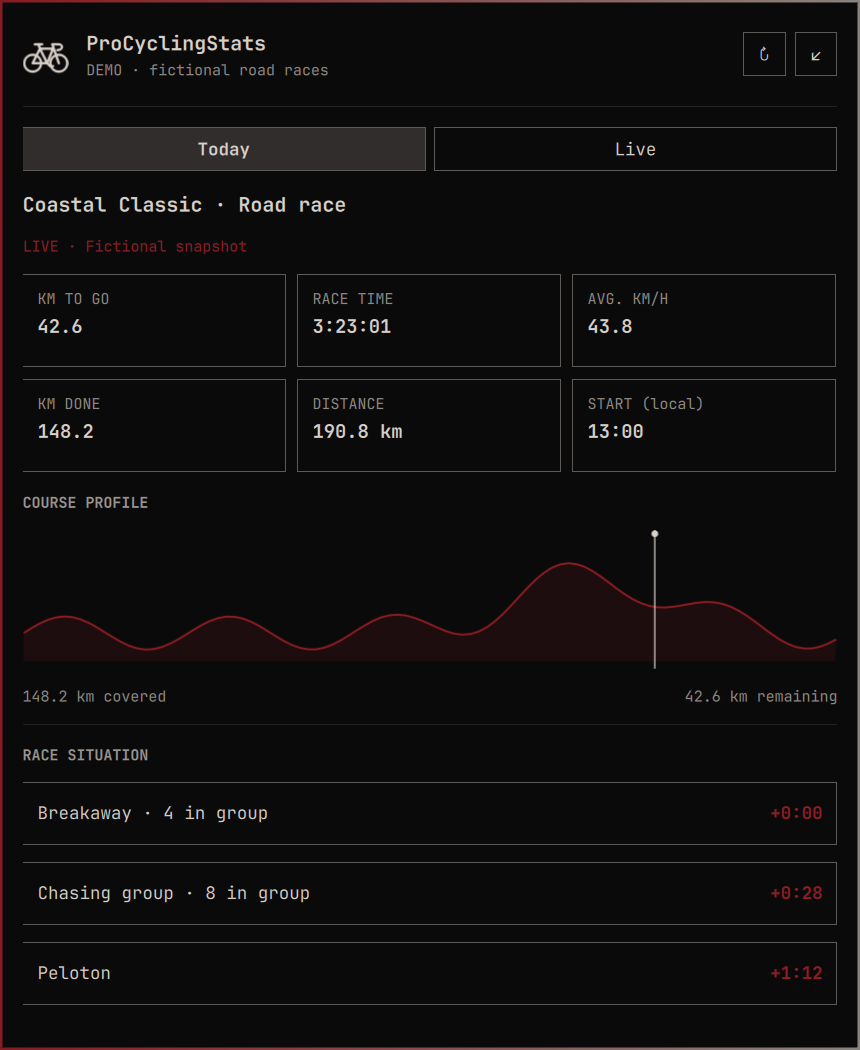
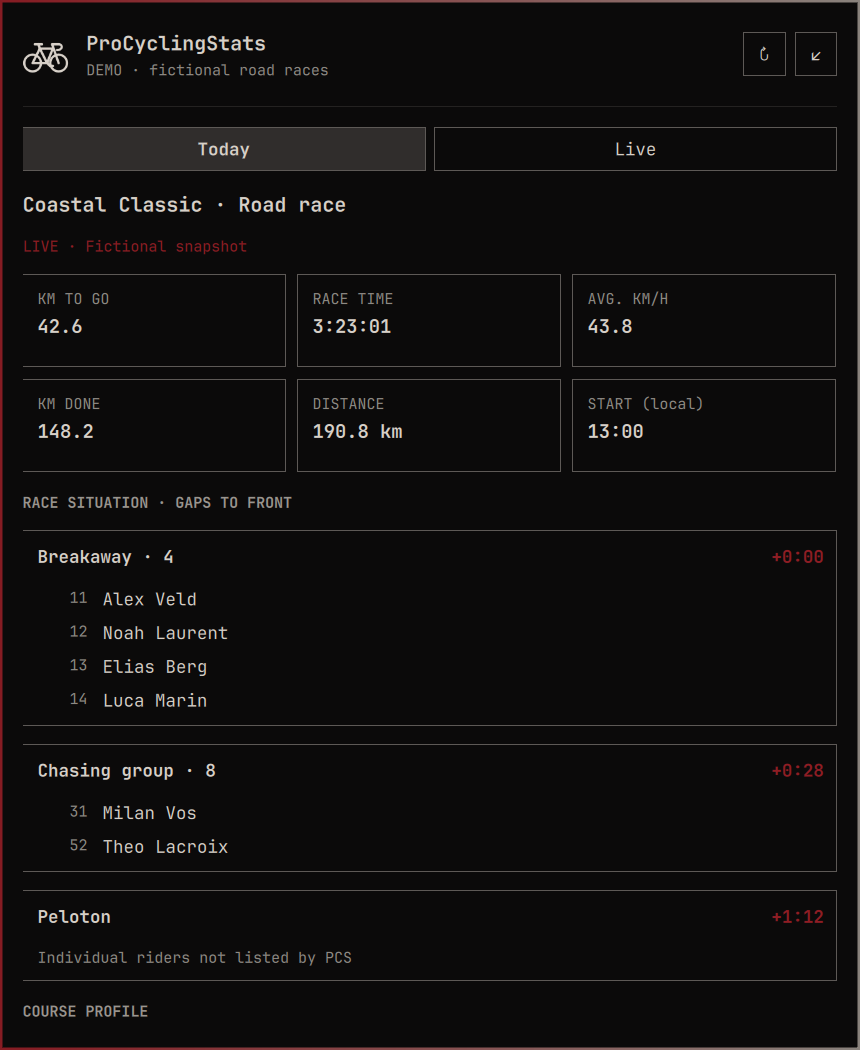
Verify rider and GC panels with previews; refresh restored race on open

diff --git a/BarWidget.qml b/BarWidget.qml
@@ -62,7 +62,7 @@ Panel {
     onFilterChanged: { cursorIndex = 0; expanded = false }
     onSelectedChanged: { classificationKind = "gc"; if(opened && expanded && service && selected) service.watch(selected.path) }
     onOpenedChanged: {
-        if(opened) {now=Date.now(); configure(); if(service)service.refresh(); Qt.callLater(function(){keys.forceActiveFocus()})}
+        if(opened) {now=Date.now(); configure(); if(service){service.refresh();if(expanded && selected)service.watch(selected.path)} Qt.callLater(function(){keys.forceActiveFocus()})}
     }
     Timer { interval:30000; running:root.opened; repeat:true; onTriggered:root.now=Date.now() }
     IpcHandler {

diff --git a/DESIGN.md b/DESIGN.md
@@ -42,5 +42,7 @@
 - 30 tests pass, including live-to-finished transitions, partial results failure,
   correct tab selection, same-time markers and rider limits. Checked real CRO Race
   GC and Paris-Chauny final results, plus saved live groups with named riders.
+  Observed the live CRO Race GC panel with 103 rows, and captured both fictional
+  rider-group and GC views. Demo exit restored live mode and the previous view.
 - Deferred: official API integration, all-day calendars beyond PCS's homepage,
   historical race browsing, team/rider pages, push notifications.
